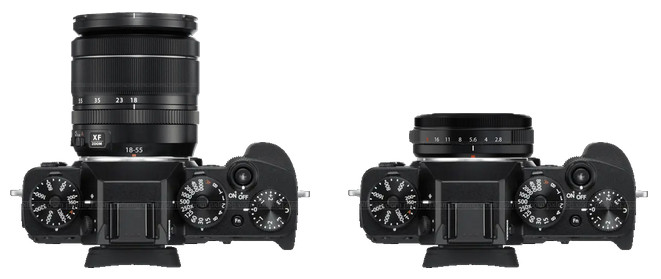
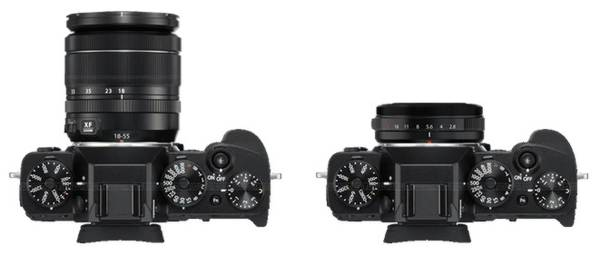
:heavy_plus_sign: Added new article

diff --git a/articles/everyday.html b/articles/everyday.html
@@ -20,7 +20,7 @@
         <main class="main">
             <article class="article">
                 <header class="article__header">
-                    <h1 class="header__title">Capturing the Everyday (WIP)</h1>
+                    <h1 class="header__title">Capturing the Everyday</h1>
                     <p class="header__description">Becoming more attentive to common surroundings; appreciating their current forms and fleeting nature.</p>
                 </header>
                 <section class="article__content">
@@ -31,24 +31,24 @@
                     <p class="content__text">In doing so, I miss the small, unexpected scenes I come across every day and limit the creation and preservation of memories in this manner to events that would likely be preserved in memory regardless.</p>
                     <p class="content__text">The goal, then, is to pay more attention to the small things, by way of seeking beauty for capture in an image, such that I am more attentive to my surroundings, and thus grow more appreciative of their current form and fleeting nature.</p>
                     <p class="content__text">In this way, you are also given more opportunity to iterate and progress in the pursuit of mastery; through taking more photos, you have more to learn from, each slowly developing your style and expertise.</p>
-                    <a class="content__link" target="_blank" href="https://james-norbury.myshopify.com/collections/big-panda-and-tiny-dragon-book/products/small-things-hahnemuhle-german-etching-print"><img class="content__image" src="/img/articles/everyday/SmallThings.jpg" alt=""></a>
+                    <a class="content__link" target="_blank" href="https://james-norbury.myshopify.com/collections/big-panda-and-tiny-dragon-book/products/small-things-hahnemuhle-german-etching-print"><img class="content__image" src="/img/articles/everyday/SmallThings.jpg" alt="Try to make time for the small things"></a>
                     <p class="content__text">On realising this, I sought a more compact lens, one less cumbersome and more attuned to everyday environments, such that I would be more likely to carry around and use it in this way.</p>
                     <p class="content__text">It could be argued that this is more suitable for that of a phone, but I think a dedicated camera is often more intentional. That, and the camera on my Nokia 2660 Flip isn't that good.</p>
                     <p class="content__text">I landed on the Fujifilm XF 27mm F2.8 R WR. Coming in at just 33% of the length and 27% of the weight of the aforementioned kit lens, this is a much more discrete and portable option while still retaining capability for high quality images.</p>
-                    <a class="content__link" target="_blank" href="https://pxlmag.com/db/camera-size-comparison/7d88166d_97ca14b0-7d88166d_9293c001-t60"><img class="content__image" src="/img/articles/everyday/PancakeLens.jpg" alt=""></a>
+                    <a class="content__link" target="_blank" href="https://pxlmag.com/db/camera-size-comparison/7d88166d_97ca14b0-7d88166d_9293c001-t60"><img class="content__image" src="/img/articles/everyday/PancakeLens.jpg" alt="Camera size comparison"></a>
                 </section>
                 <section class="article__content">
                     <h2 class="content__heading">The Small Things; The Everyday</h2>
-                    <img class="content__image" src="/img/articles/everyday/placeholder.jpg" alt="">
-                    <img class="content__image" src="/img/articles/everyday/placeholder.jpg" alt="">
-                    <img class="content__image" src="/img/articles/everyday/placeholder.jpg" alt="">
-                    <img class="content__image" src="/img/articles/everyday/placeholder.jpg" alt="">
-                    <img class="content__image" src="/img/articles/everyday/placeholder.jpg" alt="">
-                    <img class="content__image" src="/img/articles/everyday/placeholder.jpg" alt="">
-                    <img class="content__image" src="/img/articles/everyday/placeholder.jpg" alt="">
-                    <img class="content__image" src="/img/articles/everyday/placeholder.jpg" alt="">
-                    <img class="content__image" src="/img/articles/everyday/placeholder.jpg" alt="">
-                    <img class="content__image" src="/img/articles/everyday/placeholder.jpg" alt="">
+                    <img class="content__image" src="/img/articles/everyday/Birds.jpg" alt="Birds">
+                    <img class="content__image" src="/img/articles/everyday/Building.jpg" alt="Building">
+                    <img class="content__image" src="/img/articles/everyday/Boat.jpg" alt="Boat">
+                    <img class="content__image" src="/img/articles/everyday/Lamppost.jpg" alt="Lamppost">
+                    <img class="content__image" src="/img/articles/everyday/Moon.jpg" alt="Moon">
+                    <img class="content__image" src="/img/articles/everyday/Hammock.jpg" alt="Hammock">
+                    <img class="content__image" src="/img/articles/everyday/Leaves.jpg" alt="Leaves">
+                    <img class="content__image" src="/img/articles/everyday/Forest.jpg" alt="Forest">
+                    <img class="content__image" src="/img/articles/everyday/Table.jpg" alt="Table">
+                    <img class="content__image" src="/img/articles/everyday/Bedsheet.jpg" alt="Bedsheet">
                 </section>
             </article>
         </main>

diff --git a/index.html b/index.html
@@ -36,6 +36,14 @@
                 </form>
             </section>
             <section class="feed">
+                <a href="articles/everyday">
+                    <div class="feed__item">
+                        <p class="feed__category">Article</p>
+                        <p class="feed__title">Capturing the Everyday</p>
+                        <div class="feed__spacer"></div>
+                        <p class="feed__date">Mar 2024</p>
+                    </div>
+                </a>
                 <a href="summaries/amusingourselves">
                     <div class="feed__item">
                         <p class="feed__category">Summary</p>
